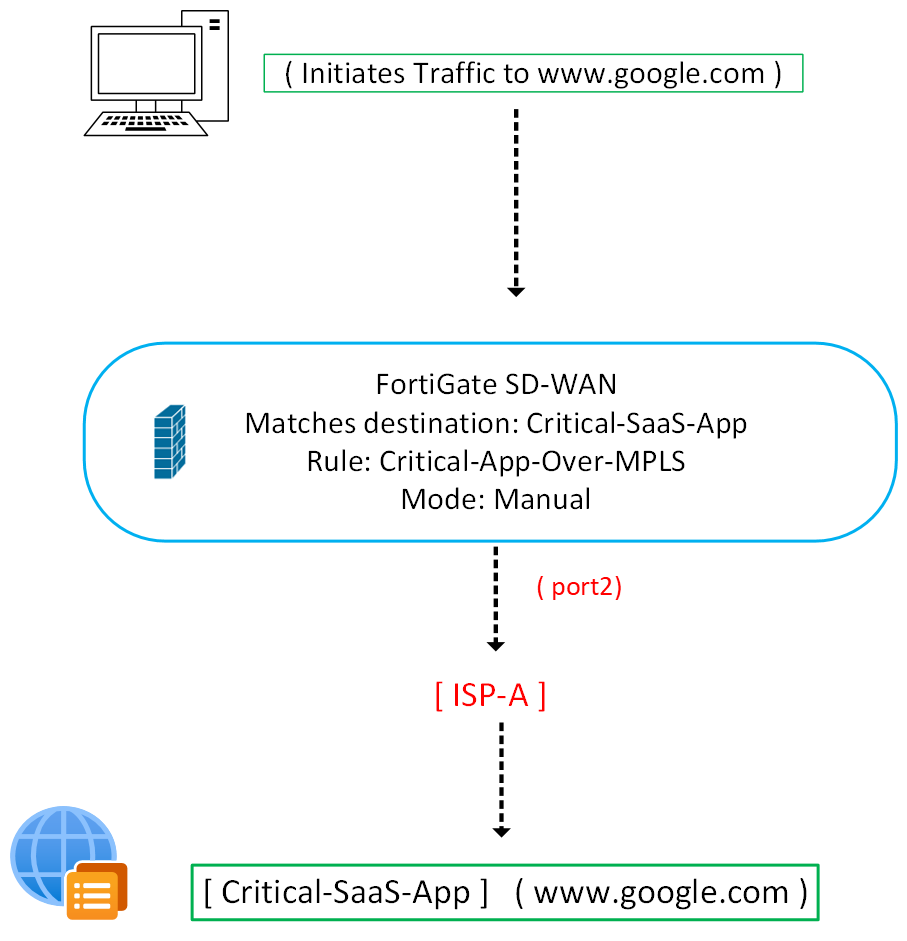
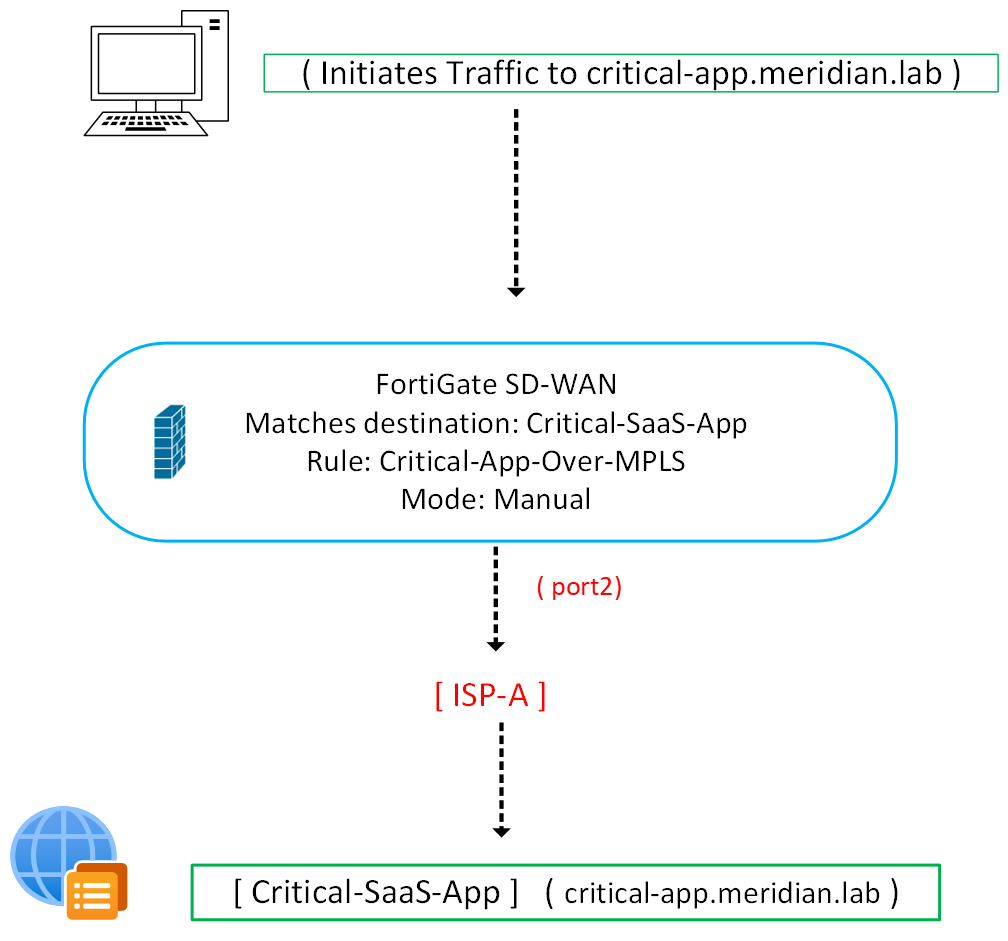
“README”

diff --git a/01-Fortinet-FortiGate/02-application-aware-routing/README.md b/01-Fortinet-FortiGate/02-application-aware-routing/README.md
@@ -1,0 +1,265 @@
+# Task 2: Application-Aware Routing & Dynamic SaaS Steering (FQDN)
+
+## Executive Summary
+Modern enterprise SaaS applications (e.g., Microsoft 365, Salesforce, AWS workspaces) rely on dynamic public IP pools and Content Delivery Networks (CDNs), making static IP whitelisting impractical and high maintenance. 
+
+This module implements **Application-Aware Routing** on Fortinet FortiOS SD-WAN using **FQDN (Fully Qualified Domain Name) Address Objects** combined with **SD-WAN Service Rules**. The FortiGate continuously resolves and caches the IP addresses associated with critical business domains and dynamically programs kernel policy routes (`proute`) to steer latency-sensitive SaaS traffic over the dedicated MPLS link (`ISP-A` / `port2`). 
+
+The implementation was subsequently validated by intentionally modifying the rule priority to dynamically reroute traffic across the secondary Broadband circuit (`ISP-B` / `port3`), confirming deterministic steering and agile traffic engineering.
+
+**Live Execution: Please enlarger for clearer video**
+
+---
+
+## Lab Architecture & IP Addressing
+
+![sd-wan](screenshots/topology.png)
+
+![sd-wan](screenshots/application-aware-visio.png)
+
+| Device / Host | Interface | IP Address | Subnet Mask | Description / Role |
+| :--- | :--- | :--- | :--- | :--- |
+| **FortiGate HQ** | `port1` | `192.168.1.1` | `255.255.255.0` | LAN Gateway |
+| **FortiGate HQ** | `port2` | `10.0.1.2` | `255.255.255.252` | WAN1 -> Primary MPLS (`ISP-A`) |
+| **FortiGate HQ** | `port3` | `10.0.2.2` | `255.255.255.252` | WAN2 -> Secondary Broadband (`ISP-B`) |
+| **ISP-1-MPLS** | `Fa0/0`, `Fa3/0` | `10.0.1.1`, `10.0.3.1` | `255.255.255.252` | MPLS Provider Core Router |
+| **ISP-2-BB** | `Fa0/0`, `Fa2/0` | `10.0.2.1`, `10.0.0.2` | `255.255.255.252` | Broadband Provider Router |
+| **HQ Server** | `eth0` | `192.168.1.10` | `255.255.255.0` | Test Client Initiating SaaS Traffic |
+| **Alpine DNS Server** | `eth0` | `192.168.60.11` | `255.255.255.0` | Authoritative DNS (`critical-app.meridian.lab`) |
+| **Alpine Web Server** | `eth0` | `192.168.60.10` | `255.255.255.0` | Simulated Critical SaaS Application (HTTP:8080) |
+
+**Web Server IP**
+
+![sd-wan](screenshots/web-server-ip.png)
+
+**DNS Service IP**
+
+![sd-wan](screenshots/dns-server-ip.png)
+
+---
+
+## Configuration & Engineering Logic
+
+### 1. FQDN Object Definition & Cache Tuning
+An FQDN object is configured on FortiGate targeting `critical-app.meridian.lab`. The `cache-ttl` is explicitly set to `30` seconds. This forces the FortiGate DNS proxy daemon to refresh resolution records frequently, ensuring fast convergence if cloud providers update their IP pools.
+
+```fortios
+config firewall address
+    edit "Critical-SaaS-App"
+        set type fqdn
+        set fqdn "critical-app.meridian.lab"
+        set cache-ttl 30
+    next
+end
+
+config system dns
+    set primary 192.168.60.11
+    set secondary 8.8.4.4
+end
+```
+![sd-wan](screenshots/show-firewall-address.png)
+
+### 2. SD-WAN Service Rule 2 (Application Steering)
+A dedicated SD-WAN service rule (`edit 2`) matches destination traffic matching the FQDN address object and pins it to **Member 1 (`port2` - MPLS)** in `manual` mode.
+
+```fortios
+config system sdwan
+    config service
+        edit 2
+            set name "Critical-App-Over-MPLS"
+            set mode manual
+            set dst "Critical-SaaS-App"
+            set priority-members 1
+        next
+    end
+end
+```
+![sd-wan](screenshots/config-service-member-1.png)
+
+---
+
+## Verification & Execution 
+
+### Phase 1: DNS Resolution & FQDN Cache Verification
+1. **Authoritative Resolution Verification (DNS Server):**
+   ```text
+   localhost:~# nslookup critical-app.meridian.lab 127.0.0.1
+   Server:    127.0.0.1
+   Address:   127.0.0.1:53
+
+   Name:      critical-app.meridian.lab
+   Address:   192.168.60.11
+   ```
+![sd-wan](screenshots/nslookup-127.png)
+
+2. **FortiGate DNS Proxy Cache Inspection (`dnsproxy 6`):**
+   ```text
+   FortiGate-VM64-KVM # diagnose test application dnsproxy 6
+   worker idx: 0
+   ...
+   vfid=0 name=critical-app.meridian.lab ver=IPv4 timer running,  min_ttl=0:23, cache_ttl=30 , slot=-1, num=1, wildcard=0
+           192.168.60.11 (ttl=0:0:0)
+   ...
+   FQDN num=7
+   ```
+![sd-wan](screenshots/fortinet-dns-proxy.png)
+
+3. **Dynamic Policy Route (`proute`) Programming:**
+   FortiOS translates the resolved FQDN into a dynamic policy route bound to outgoing interface `port2`:
+   ```text
+   FortiGate-VM64-KVM # diagnose firewall proute list
+   list route policy info(vf=root):
+
+   id=2131689474(0x7f0f0002) vwl_service=2(Critial-App-Over-MPLS) vwl_mbr_seq=1 dscp_tag=0xfc 0xfc flags=0x0 tos=0x00 tos_mask=0x00 protocol=0 sport=0-65535 iif=0 dport=1-65535 path(1) oif=4(port2)
+   destination fqdn(1):
+           critical-app.meridian.lab ID(229) ADDR(192.168.60.11)
+   source wildcard(1): 0.0.0.0/0.0.0.0
+   hit_count=4 last_used=2026-10-26 01:10:43
+   ```
+![sd-wan](screenshots/policy-route.png)
+
+4. **SD-WAN Service Table Verification:**
+   Verifies that both underlay members are active and that Service Rule 2 correctly binds the destination FQDN (`critical-app.meridian.lab`) to Member 1 (`port2` / MPLS):
+   ```text
+   FortiGate-VM64-KVM # diagnose sys sdwan service
+   
+   Service(2): Address Mode(IPV4) flags=0x200 use-shortcut-sla
+   Tie break: cfg
+   Gen(1), TOS(0x0/0x0), Protocol(0: 1->65535), Mode(manual)
+   Members(1):
+     1: Seq_num(1 port2), alive, selected
+   Dst fqdn(1): critical-app.meridian.lab(229)
+
+   FortiGate-VM64-KVM #
+   ```
+   ![sd-wan](screenshots/sd-wan-service-member-1.png)
+
+---
+
+### Phase 2: Traffic Steering over Primary Path (MPLS)
+1. **Client DNS Resolution from HQ Node:**
+   ```text
+   localhost:~# nslookup critical-app.meridian.lab
+   Server:    192.168.60.11
+   Address:   192.168.60.11:53
+
+   Name:      critical-app.meridian.lab
+   Address:   192.168.60.11
+   ```
+![sd-wan](screenshots/ns-lookup-hq.png)
+
+2. **Traceroute Validation (Egress via `port2` / `10.0.1.1`):**
+   ```text
+   localhost:~# traceroute -I critical-app.meridian.lab
+   traceroute to critical-app.meridian.lab (192.168.60.11), 30 hops max, 46 byte packets
+    1  192.168.1.1 (192.168.1.1)  2.718 ms  2.301 ms  2.458 ms
+    2  10.0.1.1 (10.0.1.1)       16.860 ms 15.854 ms  6.240 ms   <-- MPLS (port2)
+    3  10.0.3.2 (10.0.3.2)       14.347 ms 28.387 ms 16.031 ms
+    4  critical-app.meridian.lab (192.168.60.11) 30.879 ms 32.862 ms 23.485 ms
+   ```
+![sd-wan](screenshots/traceroute-through-port-2.png)
+
+3. **Application Layer HTTP Request (`wget`):**
+   ```text
+   localhost:~# wget -S -O - http://192.168.60.10:8080/
+   Connecting to 192.168.60.10:8080 (192.168.60.10:8080)
+   HTTP/1.0 200 OK
+   Server: SimpleHTTP/0.6 Python/3.12.15
+   Content-Type: text/html
+   Content-Length: 191
+
+   <title>Meridian Critical Application</title>
+   <h1>Meridian Critical Application</h1>
+   <p>SD-WAN traffic steering test successful.</p>
+   ```
+![sd-wan](screenshots/wget-successful.png)
+
+---
+
+### Phase 3: Dynamic Steering Shift (Rerouting to Broadband)
+To validate policy agility without interrupting the client stack, the SD-WAN service rule was modified to point to Member 2 (`port3` / Broadband):
+
+```fortios
+config system sdwan
+    config service
+        edit 2
+            set priority-members 2
+        next
+    end
+end
+```
+![sd-wan](screenshots/intentional-policy-change.png)
+
+1. **Service Verification:**
+   ```text
+   FortiGate-VM64-KVM # diagnose sys sdwan service
+   Service(2): Address Mode(IPV4) flags=0x200 use-shortcut-sla
+   Tie break: cfg
+   Gen(2), TOS(0x0/0x0), Protocol(0: 1->65535), Mode(manual)
+   Members(1):
+     1: Seq_num(2 port3), alive, selected
+   Dst fqdn(1): critical-app.meridian.lab(229)
+   ```
+![sd-wan](screenshots/sd-wan-service-member-2.png)
+
+2. **Traceroute Post-Policy Update (Egress shifted to `port3` / `10.0.2.1`):**
+   ```text
+   localhost:~# traceroute -I critical-app.meridian.lab
+   traceroute to critical-app.meridian.lab (192.168.60.11), 30 hops max, 46 byte packets
+    1  192.168.1.1 (192.168.1.1)  1.693 ms  3.527 ms  3.232 ms
+    2  10.0.2.1 (10.0.2.1)        7.538 ms 14.739 ms  4.311 ms   <-- Shifted to ISP-B (port3)
+    3  10.0.0.1 (10.0.0.1)       31.913 ms 26.403 ms 22.608 ms
+    4  10.0.3.2 (10.0.3.2)       48.028 ms 32.440 ms 25.807 ms
+    5  critical-app.meridian.lab (192.168.60.11) 43.483 ms 36.554 ms 37.804 ms
+   ```
+![sd-wan](screenshots/traceroute-member-2.png)
+
+**ISP: show ip int brief**
+
+![sd-wan](screenshots/show-ip-int-brief.png)
+
+**Traceroute**
+
+![sd-wan](screenshots/traceroute-before-after.png)
+
+---
+
+## Evidence Index
+
+| Phase | Artifact / Screenshot | Purpose & Verification |
+| :--- | :--- | :--- |
+| **Phase 1: Baseline** | `application-aware-visio.png` | Network topology displaying HQ FortiGate, underlay links, DNS, and Web server. |
+| **Phase 1: Baseline** | `DNS Server ip a.png` | IP configuration output verifying DNS Server at `192.168.60.11/24`. |
+| **Phase 1: Baseline** | `web server ip a.png` | IP configuration output verifying Python HTTP Server at `192.168.60.10/24`. |
+| **Phase 1: Baseline** | `ISP 1 sho ip int brief.png` | Confirms interfaces on `ISP-1-MPLS` (`10.0.1.1`, `10.0.3.1`) are UP. |
+| **Phase 1: Baseline** | `ISP 2 sh ip int brief .png` | Confirms interfaces on `ISP-2-BB` (`10.0.2.1`, `10.0.0.2`) are UP. |
+| **Phase 1: Baseline** | `ISP 2 hosting DNS server.png` | Shows host lookup resolution configured on ISP-2 underlay. |
+| **Phase 1: Baseline** | `Application aware test DNS server nslookup server itself.png` | Verifies local resolution of `critical-app.meridian.lab` directly on DNS server. |
+| **Phase 2: Configuration** | `fortinate show firewall address SAAS object.png` | Validates FQDN address object `Critical-SaaS-App` with `cache-ttl 30`. |
+| **Phase 2: Configuration** | `Fortinet show system sdwan policy 2.png` | Confirms SD-WAN rule 2 matching FQDN object and member preference. |
+| **Phase 2: Configuration** | `diagnose test application dnsproxy 6.png` | Validates FortiGate DNS proxy resolved `critical-app.meridian.lab` to `192.168.60.11`. |
+| **Phase 2: Configuration** | `diagnose firewall proute list.png` | Verifies dynamic kernel policy route installation (`oif=port2`) matching the FQDN IP. |
+| **Phase 2: Configuration** | `Fortinet diagnose sys sdwan service .png` | Confirms SD-WAN service table state with active selected member. |
+| **Phase 3: Validation** | `NS LOOKUP HQ NODE.png` | Confirms HQ host resolves domain via internal DNS (`192.168.60.11`). |
+| **Phase 3: Validation** | `TRACEROUTE through port 1 successful HQ NODE.png` | Confirms outbound traffic exits `port2` (MPLS next-hop `10.0.1.1`). |
+| **Phase 3: Validation** | `HQ node wget web server successful.png` | End-to-end HTTP payload validation retrieving custom HTML application page. |
+| **Phase 4: Policy Change** | `intentional policy change .png` | Shows CLI modification changing rule 2 member priority to Member 2 (`port3`). |
+| **Phase 4: Policy Change** | `POLICY 2 switching to port 3.png` | Shows SD-WAN service rule 2 updating active egress path to `port3`. |
+| **Phase 4: Policy Change** | `POLICy CHANGE SUCCESSFUL PC is prefering port 3 after changing .png` | Post-change traceroute showing traffic immediately re-routed through `10.0.2.1` (`ISP-B`). |
+
+---
+
+## Operational Runbook & SOPs
+* **[sd wan runbook application aware](./sd%20wan%20runbook%20application%20aware)** — Operational guide detailing commands for clearing DNS proxy tables, verifying FQDN TTLs, inspecting `proute` counters, and managing service rule priorities.
+
+---
+
+## Business Value Delivered
+* **Zero Operational Overhead for Cloud IP Shifts:** Dynamic FQDN resolution eliminates manual subnet whitelisting when SaaS providers modify backend hosting IPs.
+* **Granular SLA Assurance:** Ensures business-critical SaaS platforms (ERP, Office 365, internal web apps) are steered across high-quality MPLS circuits while non-critical bulk traffic stays on commodity broadband.
+* **Deterministic Policy Enforcement:** Guarantees policy routing rules adapt synchronously as soon as users resolve application domain names.
+
+---
+
+### ➡ Next Module
+* ⚖ **[Task 3: Active/Active Load Balancing (Round-Robin)](../03-active-active-load-balancing/)** — Distributing outbound sessions across both WAN links simultaneously to maximize aggregate bandwidth utilization.
